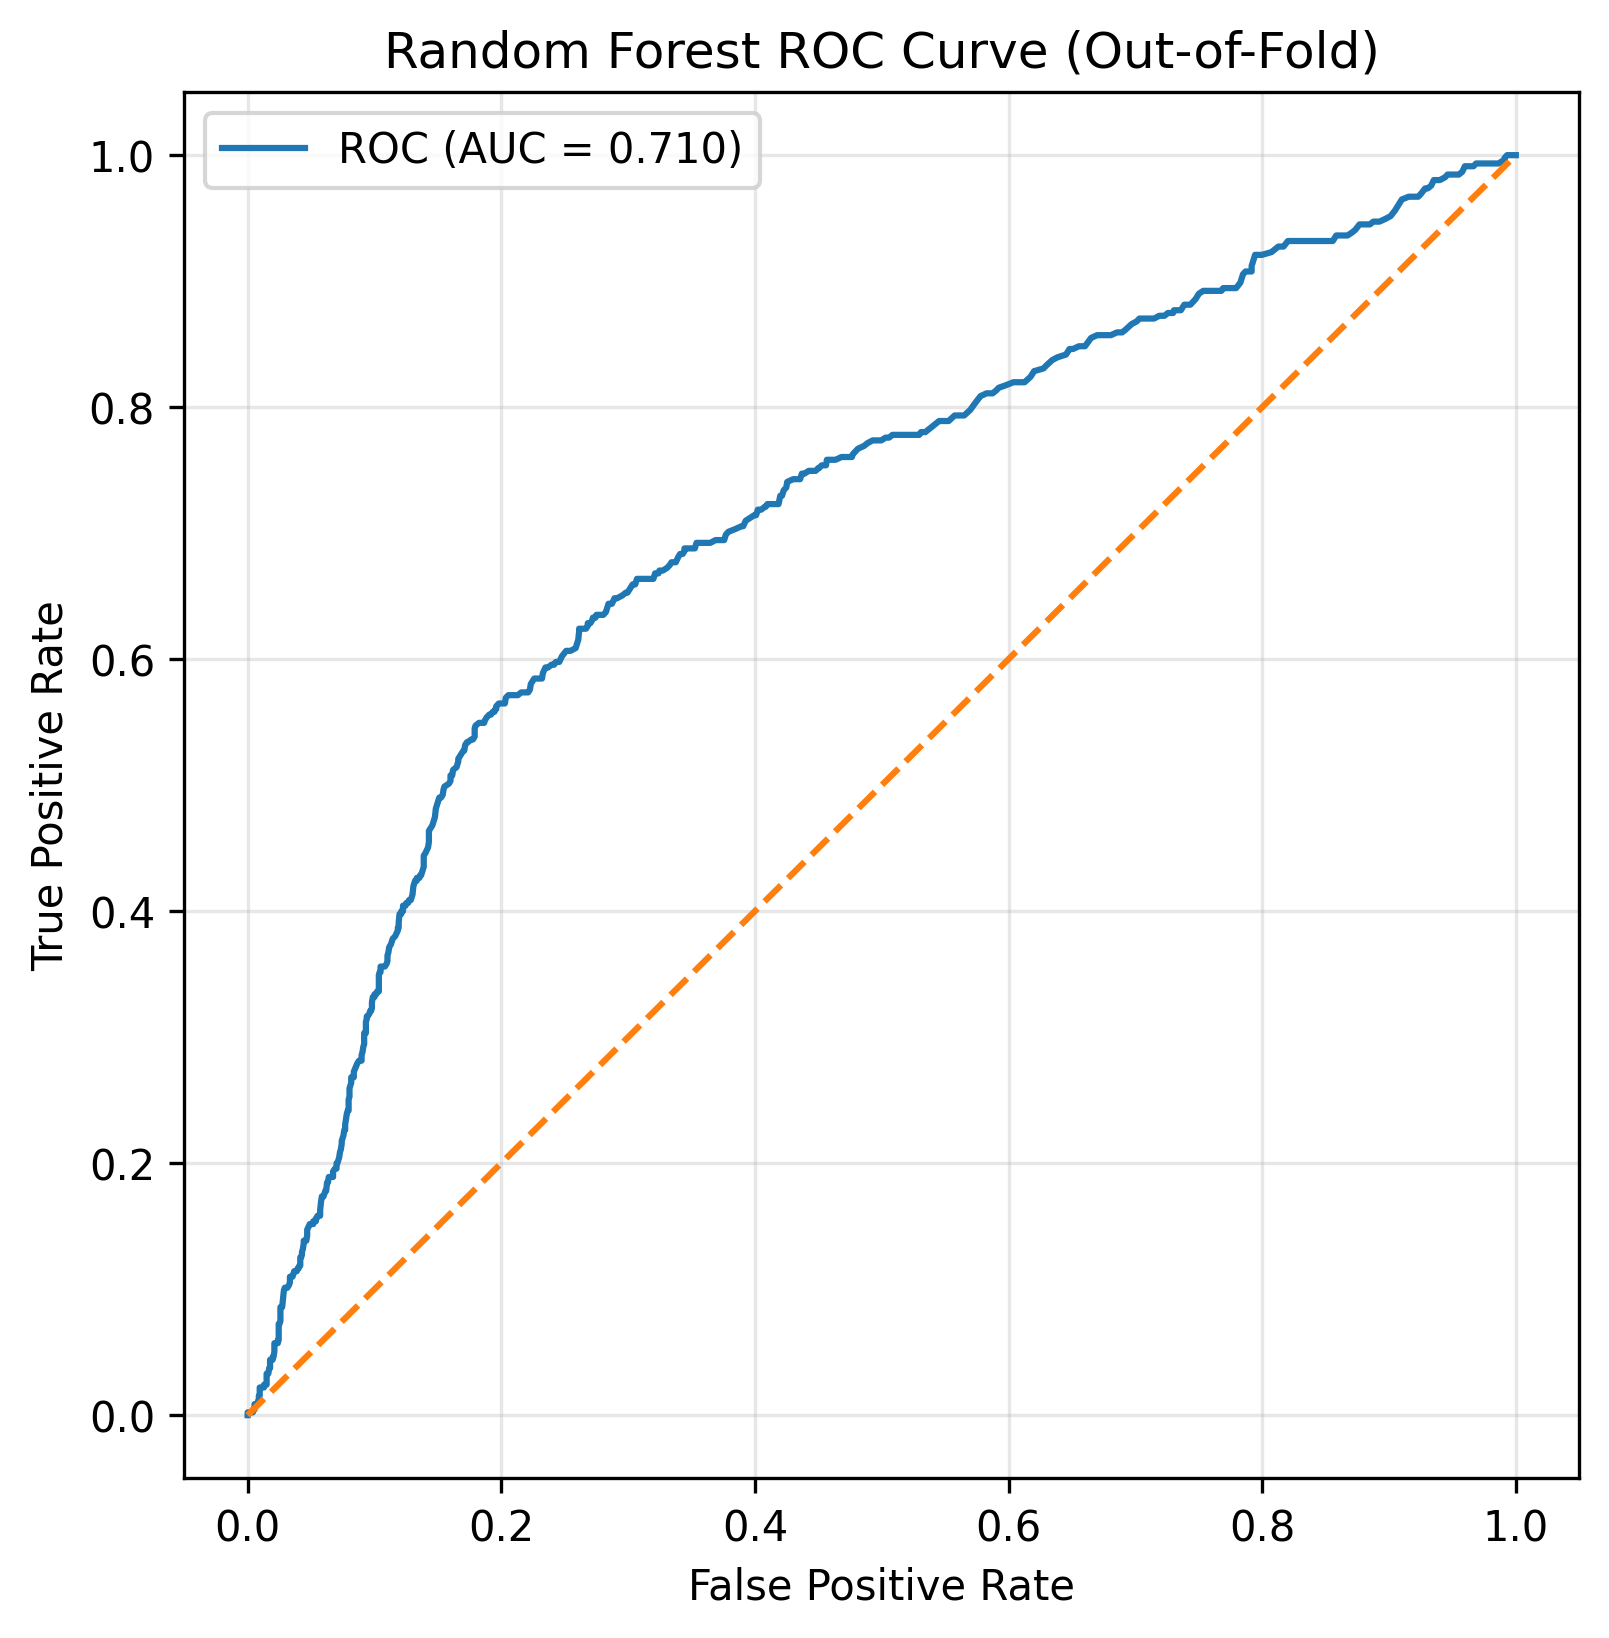
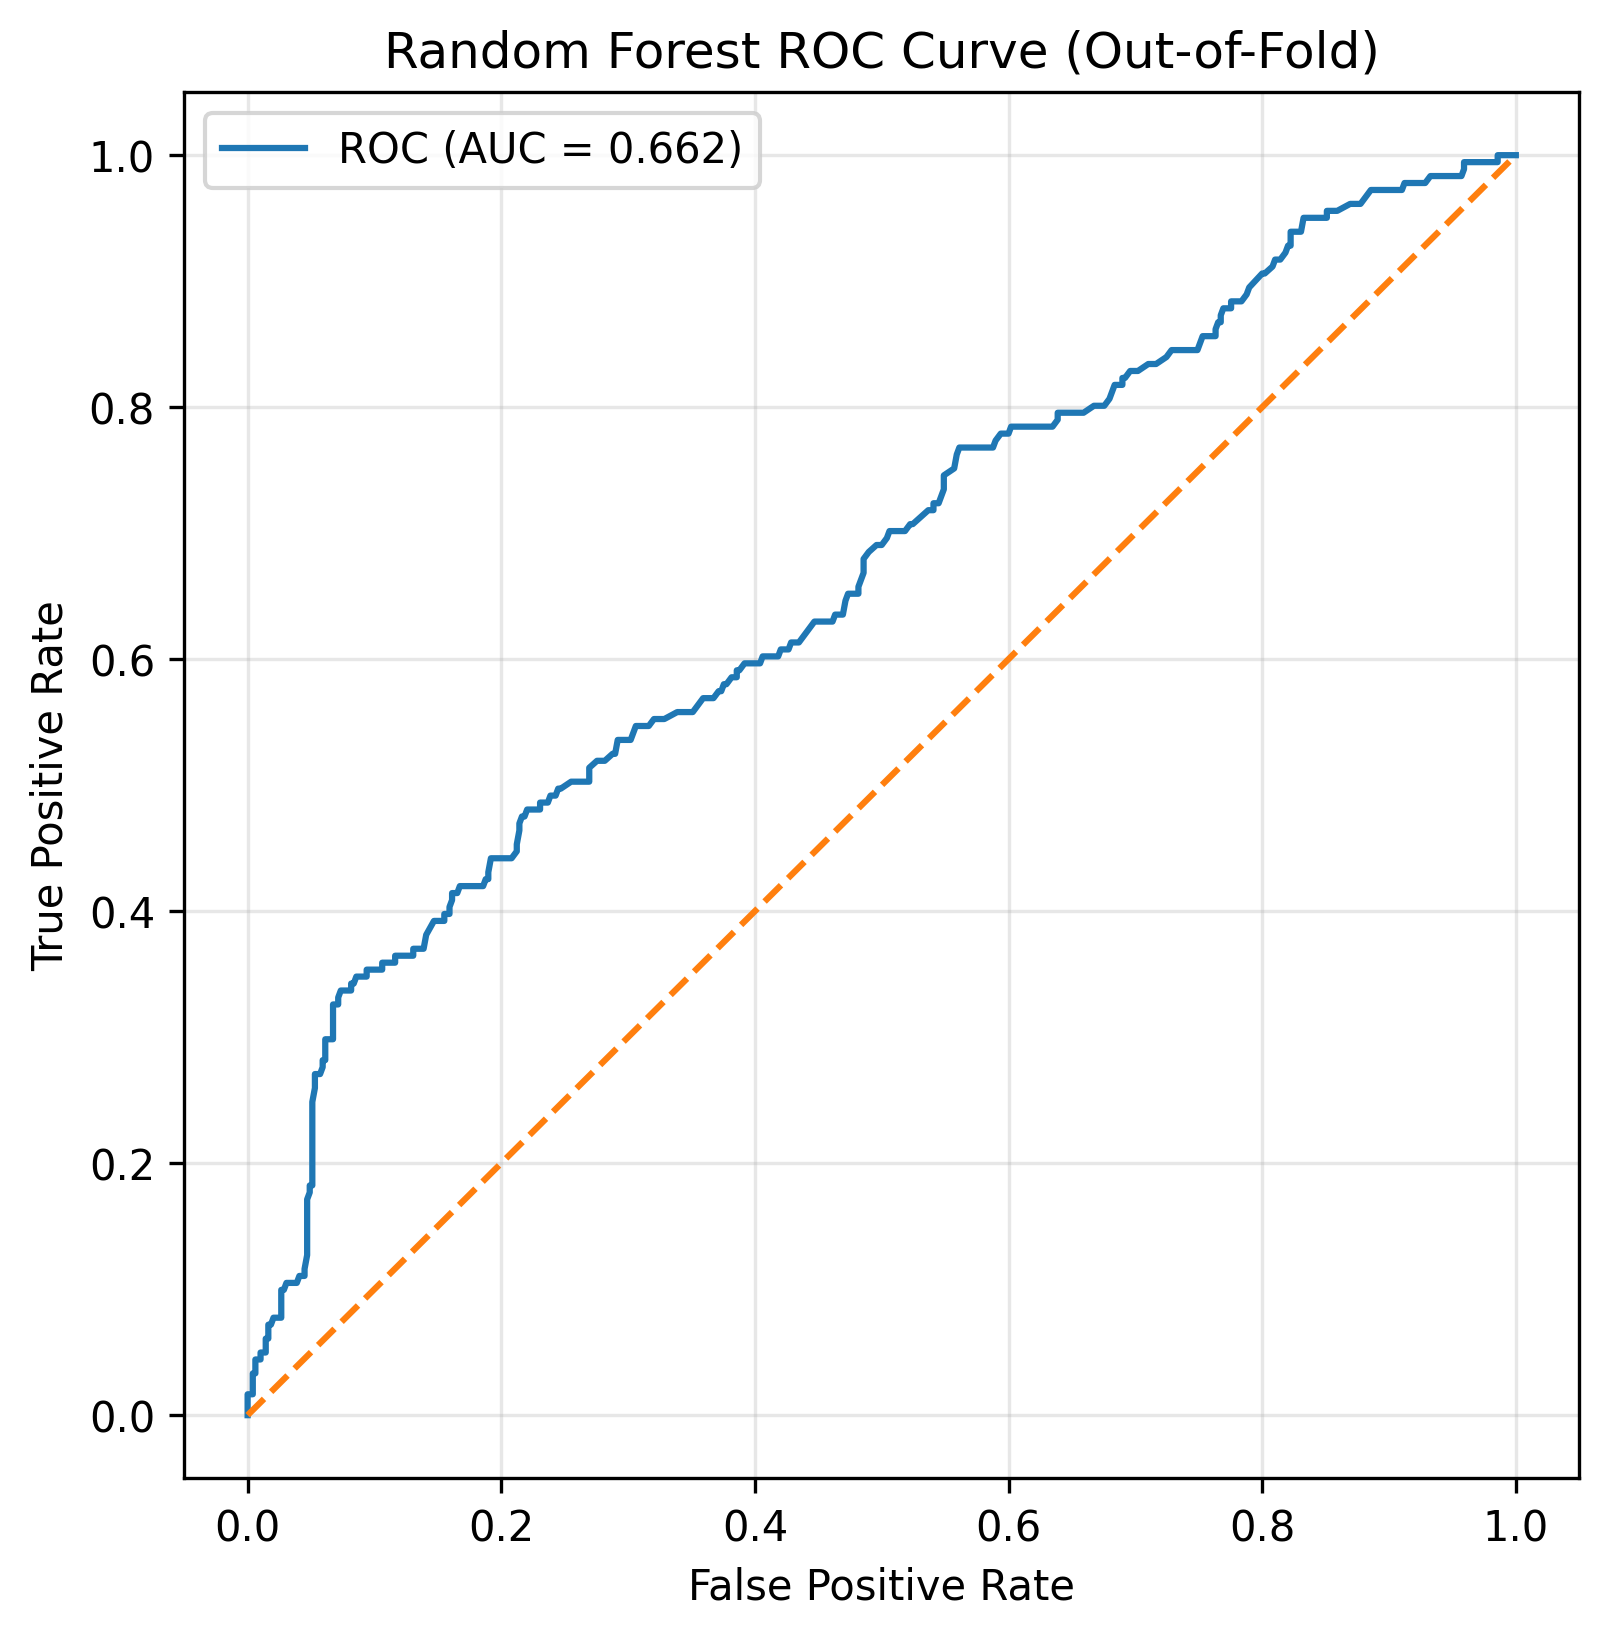
Add prediction for random forest test set

diff --git a/scripts/models/random_forest.py b/scripts/models/random_forest.py
@@ -87,21 +87,18 @@ DEFAULT_FEATURE_LIST = [
 ]
 
 
-def create_model(dst: str):
-    """Create DEC features per target row through data aggregations.
-
-    Raw features are stored as rows of single test results across all tests and monitoring sites. To convert
-    these into usable features, these must be pivoted so that each test is its own column. The test results
-    must then be aggregated across a window so that they can be correctly paired with target observations.
+def create_model(predict_test_set: bool = False):
+    """Create random forest model
 
     Args:
-        features_to_use: only save features included in this list
-        dst: output file destination. If empty, no output file is saved
-    Returns:
-        Feature dataframe
+        predict_test_set: if provided, runs predictions against the test set. Otherwise, just uses the validation set
     """
     X, y = _get_features_and_targets(TARGET, DEFAULT_FEATURE_LIST)
-    X_train, _, y_train, _ = get_train_test_split(X, y)
+    X_train, X_test, y_train, y_test = get_train_test_split(X, y)
+    if predict_test_set:
+        _predict_test_set(X_train, X_test, y_train, y_test)
+        return
+
     groups = [dt.year for dt in y_train.index.get_level_values(0)]
     metrics, predictions = _run_cross_validation(X_train, y_train, groups)
     print(f"--Model performance without feature selection--")
@@ -197,6 +194,39 @@ def _run_cross_validation(
     return metrics, cv_predictions
 
 
+def _predict_test_set(
+    X_train, X_test, y_train, y_test, n_estimators=1000
+) -> Tuple[Dict, np.array]:
+    rfc = sklearn.ensemble.RandomForestClassifier(
+        n_estimators=n_estimators, max_features="sqrt", random_state=42
+    )
+    rfc.fit(X_train, y_train)
+    y_pred = rfc.predict(X_test)
+    metrics = {
+        "roc_auc": sklearn.metrics.roc_auc_score(y_test.values, y_pred),
+        "accuracy": sklearn.metrics.accuracy_score(y_test.values, y_pred),
+        "precision": sklearn.metrics.precision_score(y_test.values, y_pred),
+        "recall": sklearn.metrics.recall_score(y_test.values, y_pred),
+        "f1": sklearn.metrics.f1_score(y_test.values, y_pred),
+    }
+
+    pprint(metrics, indent=4, sort_dicts=False)
+
+    y_pred_proba = rfc.predict_proba(X_test)
+    generate_roc_curve_plot(
+        "Random Forest",
+        y_test,
+        y_pred_proba[:, 1],
+        "figures/random_forest_roc_curve.png",
+    )
+    generate_precision_recall_curve_plot(
+        "Random Forest",
+        y_test,
+        y_pred_proba[:, 1],
+        "figures/random_forest_pr_curve.png",
+    )
+
+
 def _get_important_features(X, y, groups, n_estimators=1000, threshold=0.01):
     logo = sklearn.model_selection.LeaveOneGroupOut()
     important_features = {}
@@ -222,13 +252,13 @@ def _get_important_features(X, y, groups, n_estimators=1000, threshold=0.01):
 
 def main():
     parser = argparse.ArgumentParser(
-        description="Generate a CSV of VT DEC features to correspond 1-to-1 with our targets."
+        description="Generate a random forest model and print performance metrics"
     )
     parser.add_argument(
-        "-o", action="store", default="out.csv", help="Output file name"
+        "--predict-test", dest="predict_test", action="store_true", default=False, help="Predict the test set"
     )
     args = parser.parse_args()
-    create_model(dst=args.o)
+    create_model(predict_test_set=args.predict_test)
 
 
 if __name__ == "__main__":
